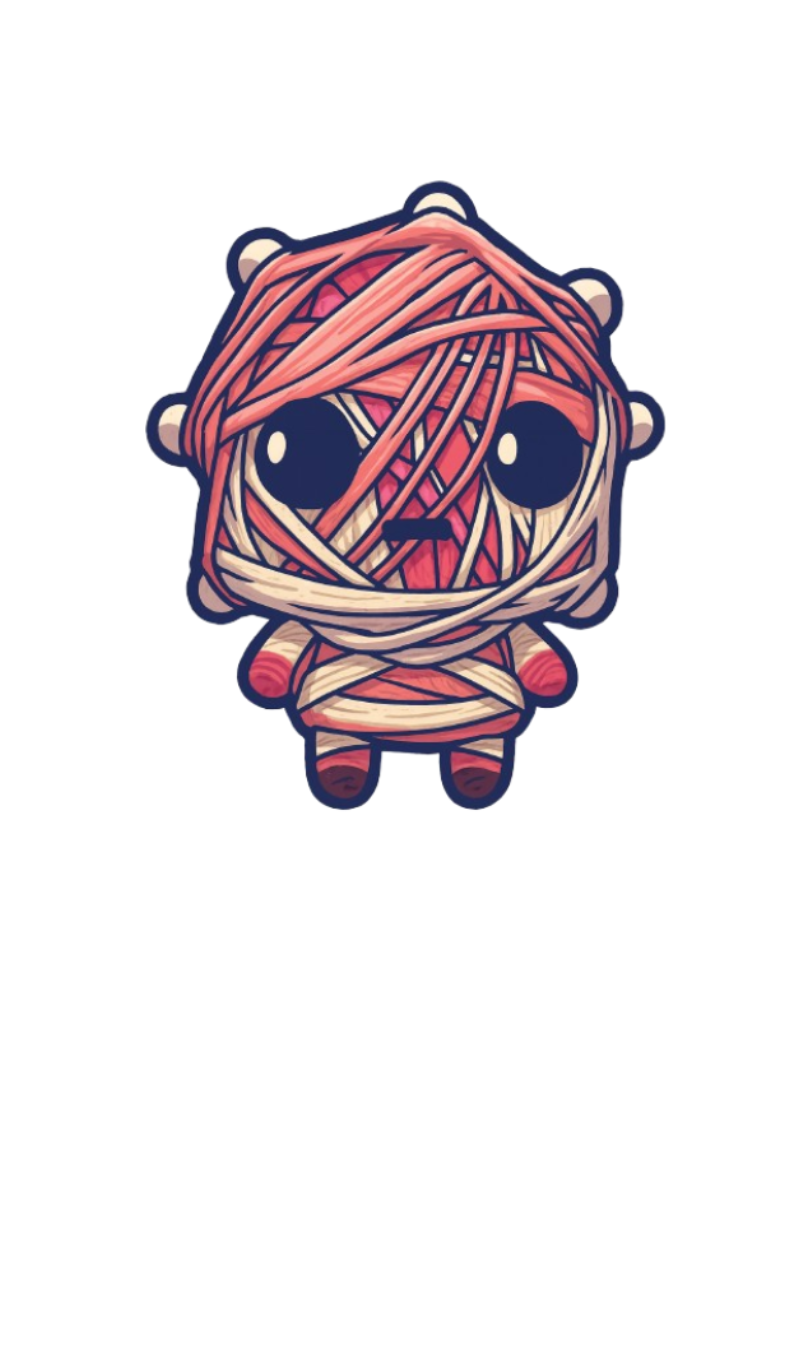
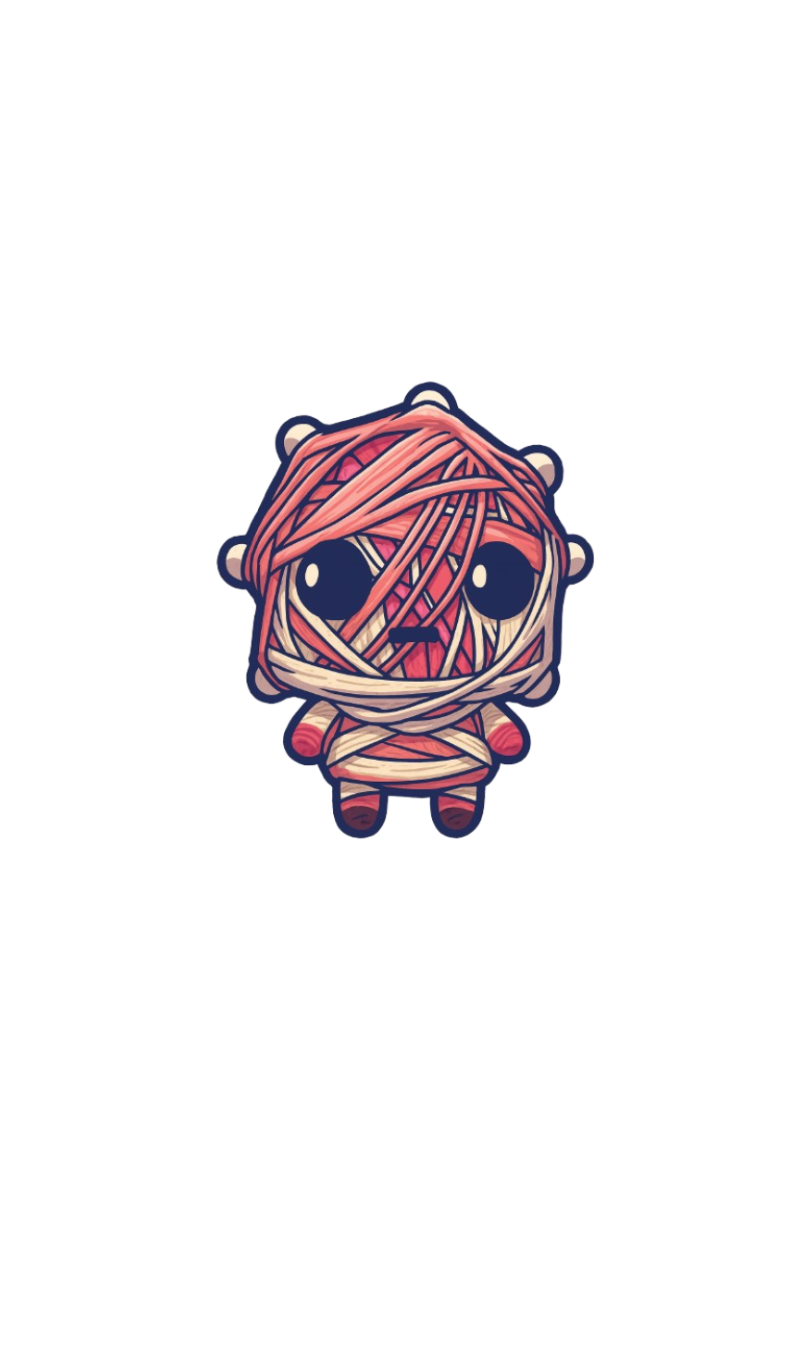
The new Companion arrives!
Parti-Callie Acceler-Rella

Currently Broken,

Cards that have to be fixed:

Pressure Conversion Cube
Parti-Callie Accele-Rella

Changed region(s): [[0.1543, 0.1244, 0.8333, 0.6222]]

diff --git a/WildfrostBirthday/Cards/Card_parti_callie.cs b/WildfrostBirthday/Cards/Card_parti_callie.cs
@@ -1,0 +1,42 @@
+using System;
+using System.Collections.Generic;
+using UnityEngine;
+using WildfrostBirthday;
+using WildfrostBirthday.Helpers;
+
+namespace WildfrostBirthday.Cards
+{
+    public static class Card_PartiCallie
+    {
+        public static void Register(WildFamilyMod mod)
+        {
+            string cardId = "companion-parti_callie";
+            string spritePath = "companions/parti_callie";
+            
+            // CLUNKER COMPANION VERSION
+            var companionBuilder = new CardDataBuilder(mod)
+                .CreateUnit(cardId, "Parti-Callie Accele-Rella")
+                .SetSprites(spritePath + ".png", "bg.png")
+                .SetStats(null, 4, 4)  // Scrap HP, ATK, Counter
+                .WithFlavour("A Perfected machine, Parti-Callie Accele-Rella is the ultimate creation of the Madfamily, constantly charging power with each trigger.")
+                .WithCardType("Companion")
+               
+                .WithValue(999999) // Set a high value to prevent it from being used in normal gameplay
+                .SubscribeToAfterAllBuildEvent(data =>
+                {
+                    // Add traits for scrap HP if needed
+                    data.startWithEffects = new[]
+                    {
+                        mod.SStack("Scrap", 10),
+                        mod.SStack("Shell", 30),
+                        mod.SStack("On Turn Apply Attack To Self", 2) // Gain attack at the start of each turn
+                    };
+                    data.attackEffects = new[]
+                    {
+                        mod.SStack("Overload", 1)
+                    };
+                });
+            mod.assets.Add(companionBuilder);
+        }
+    }
+}

diff --git a/WildfrostBirthday/Cards/Card_PressureConversionCube.cs b/WildfrostBirthday/Cards/Card_PressureConversionCube.cs
@@ -1,0 +1,36 @@
+using System;
+using System.Collections.Generic;
+using UnityEngine;
+using WildfrostBirthday;
+using WildfrostBirthday.Helpers;
+
+namespace WildfrostBirthday.Cards
+{
+    public static class Card_PressureConversionCube
+    {
+        public static void Register(WildFamilyMod mod)
+        {
+            string cardId = "companion-pressure_conversion_cube";
+            string spritePath = "companions/pressure_conversion_cube";
+
+            var companionBuilder = new CardDataBuilder(mod)
+                .CreateItem(cardId, "Pressure Conversion Cube")
+                .SetSprites(spritePath + ".png", "bg.png")
+                .SetStats(64, 0, 0)  // Scrap HP, ATK, Counter
+                .WithFlavour("A device that converts outgoing trauma into internal pressure.")
+                .WithCardType("clunker")
+                .WithValue(0)
+                .SubscribeToAfterAllBuildEvent(data =>
+                {
+                    // Add traits for scrap HP if needed
+                    data.startWithEffects = new[]
+                    {
+                        mod.SStack("When Spice X Applied To Self Trigger To Self", 60), //This will trigger the effect when 60 spice is applied
+                        mod.SStack("Destroy Self After Turn", 1), // Destroys self after turn
+                        mod.SStack("When Health Lost Apply Equal Spice To Self", 1) // Gain attack at the start of each turn
+                    };
+                });
+            mod.assets.Add(companionBuilder);
+        }
+    }
+}

diff --git a/WildfrostBirthday/Tribes/Tribe_MadFamily.cs b/WildfrostBirthday/Tribes/Tribe_MadFamily.cs
@@ -123,6 +123,9 @@ namespace WildfrostBirthday.Tribes
                 mod.TryGet<CardData>("item-supplydrop"),
                 mod.TryGet<CardData>("companion-frostflower"),
                 mod.TryGet<CardData>("item-energycore"),
+                mod.TryGet<CardData>("item-turbo_drive"),
+                mod.TryGet<CardData>("companion-pressure_conversion_cube"),
+                mod.TryGet<CardData>("companion-parti_callie"),
                 
             };
             itemsPool.isGeneralPool = true;
@@ -279,6 +282,8 @@ namespace WildfrostBirthday.Tribes
                 //mod.TryGet<CardData>("companion-dreadnought"),
                 mod.TryGet<CardData>("companion-goldengale"),
                 mod.TryGet<CardData>("companion-warcraft"),
+                mod.TryGet<CardData>("companion-larry"),
+                
                 
 
             };
@@ -320,6 +325,7 @@ namespace WildfrostBirthday.Tribes
                 mod.TryGet<GameModifierData>("BlessingNoomlin"),
                 mod.TryGet<GameModifierData>("BlessingStrength"),
                 mod.TryGet<GameModifierData>("BlessingInfinity"),
+                
             };
             modifiersPool.isGeneralPool = true;
             pools.Add(modifiersPool);

diff --git a/WildfrostBirthday/Cards/Item_TurboDrive.cs b/WildfrostBirthday/Cards/Item_TurboDrive.cs
@@ -1,0 +1,32 @@
+using System.Collections.Generic; // Needed for List<>
+using System.Collections.Generic;
+using UnityEngine;
+
+namespace WildfrostBirthday.Cards
+{
+    public static class Item_TurboDrive
+    {
+        public static void Register(WildFamilyMod mod)
+        {
+            var builder = new CardDataBuilder(mod)
+                .CreateItem("item-turbo_drive", "Turbo Drive")
+                .SetSprites("items/turbo_drive.png", "bg.png")
+                .WithFlavour("A device that Overclocks the target, at the cost of their health.")
+                .WithCardType("Item")
+                .WithValue(45)
+                .SetDamage(4)
+                .SubscribeToAfterAllBuildEvent(data =>
+                {
+                    data.attackEffects = new[] {
+                        mod.SStack("Reduce Counter", 5),
+                        
+                    };
+                      data.traits = new List<CardData.TraitStacks> {
+                        mod.TStack("Recycle", 2),
+                    };
+                });
+                
+            mod.assets.Add(builder);
+        }
+    }
+}

diff --git a/WildfrostBirthday/Cards/Card_Larry.cs b/WildfrostBirthday/Cards/Card_Larry.cs
@@ -15,14 +15,14 @@ namespace WildfrostBirthday.Cards
             var companionBuilder = new CardDataBuilder(mod)
                 .CreateUnit(cardId, "Larry")
                 .SetSprites(spritePath + ".png", "bg.png") // Adjust sprite paths as needed
-                .SetStats(3, 1, 7) // HP, ATK, Counter
+                .SetStats(2, 1, 0) // HP, ATK, Counter
                 .WithCardType("Friendly")                .WithFlavour("A knitted friend of cassie, always ready to help by healing allies when hit.")
                 .SubscribeToAfterAllBuildEvent(data =>
                 {
                     // Use the helper methods to get status effect stacks and trait stacks
                     data.startWithEffects = new[] {
                         mod.SStack("On Turn Heal Allies", 1),
-                        mod.SStack("Scrap", 2)
+                        mod.SStack("Scrap", 4)
                     };
                     
                     data.traits = new List<CardData.TraitStacks> {

diff --git a/WildfrostBirthday/Battles/Battle_VolatileAmoeboms.cs b/WildfrostBirthday/Battles/Battle_VolatileAmoeboms.cs
@@ -23,7 +23,7 @@ namespace WildfrostBirthday.Battles
                 .SubscribeToAfterAllBuildEvent(data =>
                 {
                     data.title = "Volatile Amoeboms";
-                    data.waveCounter = 4;
+                    data.waveCounter = 5;
                     data.pools = new BattleWavePoolData[]
                     {
                         // Wave 1: Sulfur Bom + Colossal Amoebom

diff --git a/WildfrostBirthday/Battles/Battle_FrostKnight.cs b/WildfrostBirthday/Battles/Battle_FrostKnight.cs
@@ -22,7 +22,7 @@ namespace WildfrostBirthday.Battles
                 .SubscribeToAfterAllBuildEvent(data =>
                 {
                     data.title = "Frost Knight";
-                    data.waveCounter = 4;
+                    data.waveCounter = 5;
                     data.pools = new BattleWavePoolData[]
                     {
                         // Wave 1: Frost Knight + Grink + Frostinger

diff --git a/WildfrostBirthday/Battles/Battle_Apricot.cs b/WildfrostBirthday/Battles/Battle_Apricot.cs
@@ -38,7 +38,7 @@ namespace WildfrostBirthday.Battles
                 .SubscribeToAfterAllBuildEvent(data =>
                 {
                     data.title = "Apricot";
-                    data.waveCounter = 4;
+                    data.waveCounter = 5;
                     data.pools = new BattleWavePoolData[]
                     {
                         // Wave 1: Apricot + Walnut + Hazelnut
